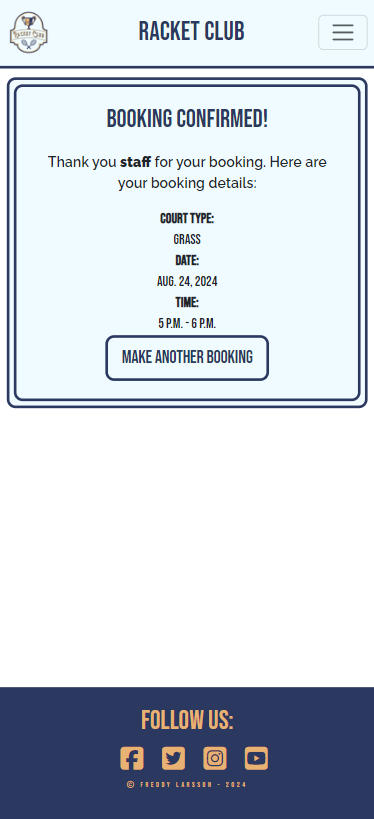
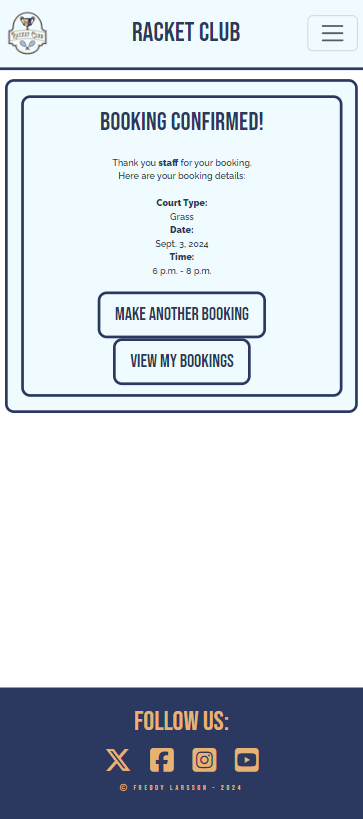
Style: my bookings and booking succes
Added a button so that the user can view their
bookings when they have completed a booking.
Also changed text color to the content where you
view your completed booking and your bookings that
the user made earlier from black to darkblue.

diff --git a/templates/booking_success.html b/templates/booking_success.html
@@ -7,12 +7,14 @@
         <div class="container">
             <div class="times blue-border success col-md">
             <h1 class="nav-font">Booking Confirmed!</h1>
-            <p class="content-text">Thank you <strong>{{ user.username }}</strong> for your booking.<br> Here are your booking details:<br><br>
+            <p class="content-text darkblue">Thank you <strong>{{ user.username }}</strong> for your booking.<br> Here are your booking details:<br><br>
                 <strong>Court Type:</strong><br> {{ booking.court_type }}<br>
                 <strong>Date:</strong><br> {{ booking.date }}<br>
                 <strong>Time:</strong><br> {{ booking.start_time.start_time }} - {{ booking.end_time.end_time }}<br></p> 
                 <button class="btn btn-signup btn-lg blue-border" 
             onclick="window.location.href='{% url 'booking_view' %}';">Make another booking</button>
+                <button class="btn btn-signup btn-lg blue-border" 
+            onclick="window.location.href='{% url 'my_bookings' %}';">View my bookings</button>
             </div>
         </div>
     </div>

diff --git a/templates/my_bookings.html b/templates/my_bookings.html
@@ -6,7 +6,7 @@
     <h1 class="nav-font">My Bookings</h1>
     <div>
         {% for booking in bookings %}
-            <p class="content-text">
+            <p class="content-text darkblue">
                 <strong>Court Type:</strong> {{ booking.court_type }} | <strong>Date:</strong> {{ booking.date }} | <strong>Time:</strong> {{ booking.start_time.start_time }} - {{ booking.end_time.end_time }}
                 <a href="{% url 'edit_booking' booking.id %}"><button class="btn btn-edit">Edit</button></a>
                 <a href="{% url 'delete_booking' booking.id %}"><button class="btn btn-delete">Delete</button></a>
@@ -14,7 +14,7 @@
                 <hr class="text-separator">
             </p>
         {% empty %}
-            <h5>You have no bookings.</h5>
+            <h5 class="content-text darkblue">You have no bookings.</h5>
         {% endfor %}
     </div>
 </div>

diff --git a/README.md b/README.md
@@ -115,7 +115,7 @@ When a date are chosen, the system searching for booked times and calculates if 
 
 <img src="readme/bookingsuccess.png" height="300" width="auto">
 <img src="readme/bookingsuccess2.png" height="300" width="auto"><br><br>
-If all goes through with valid data input to the form the user will get directed to a page that confirms the booking. All data that was selected and who that made the booking will be visualised on this page. There are also a button back to the form if the user will make another booking of the court.
+If all goes through with valid data input to the form the user will get directed to a page that confirms the booking. All data that was selected and who that made the booking will be visualised on this page. There are two buttons here if the user wants to make another booking or view their bookings.
 
 
 ## Edit booking
